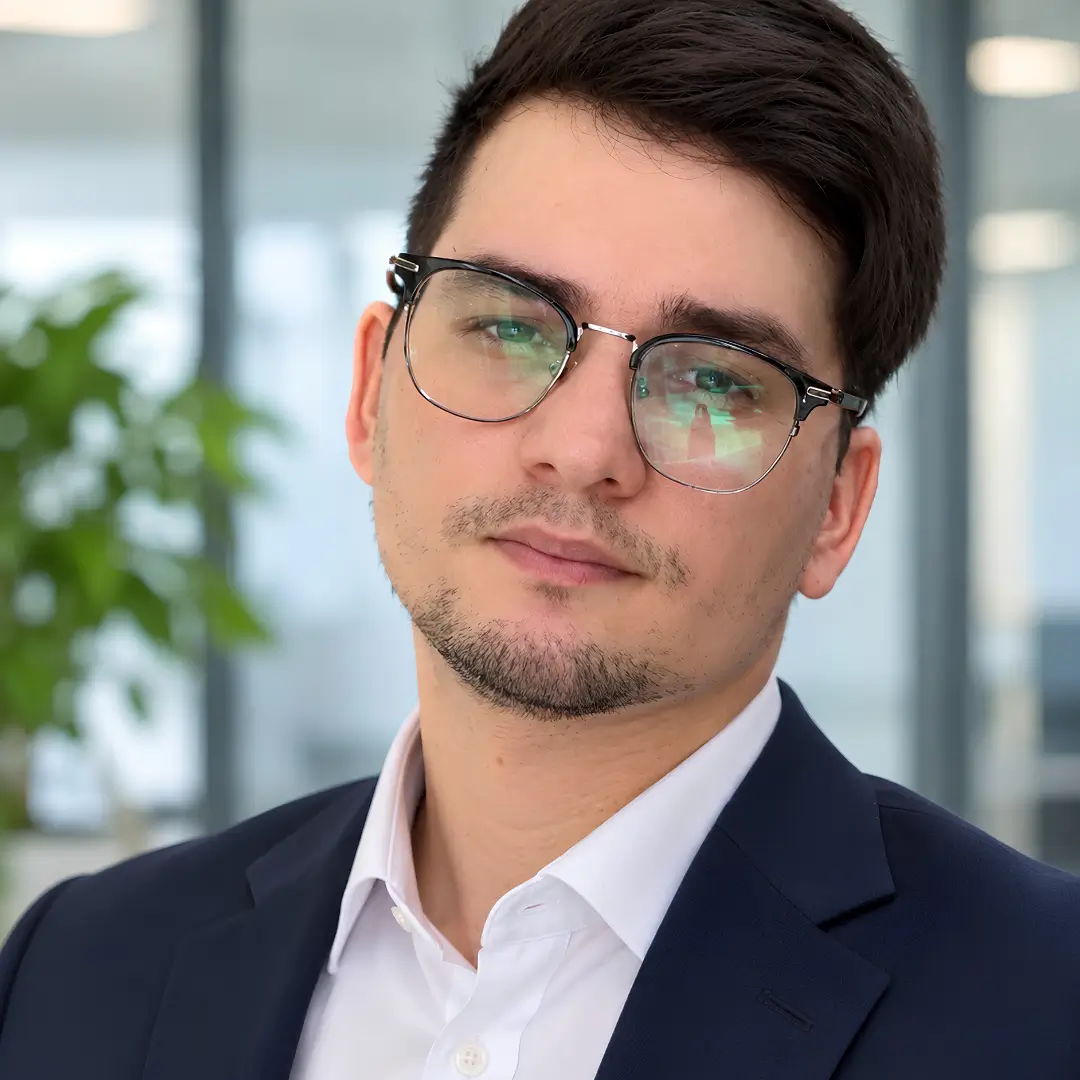
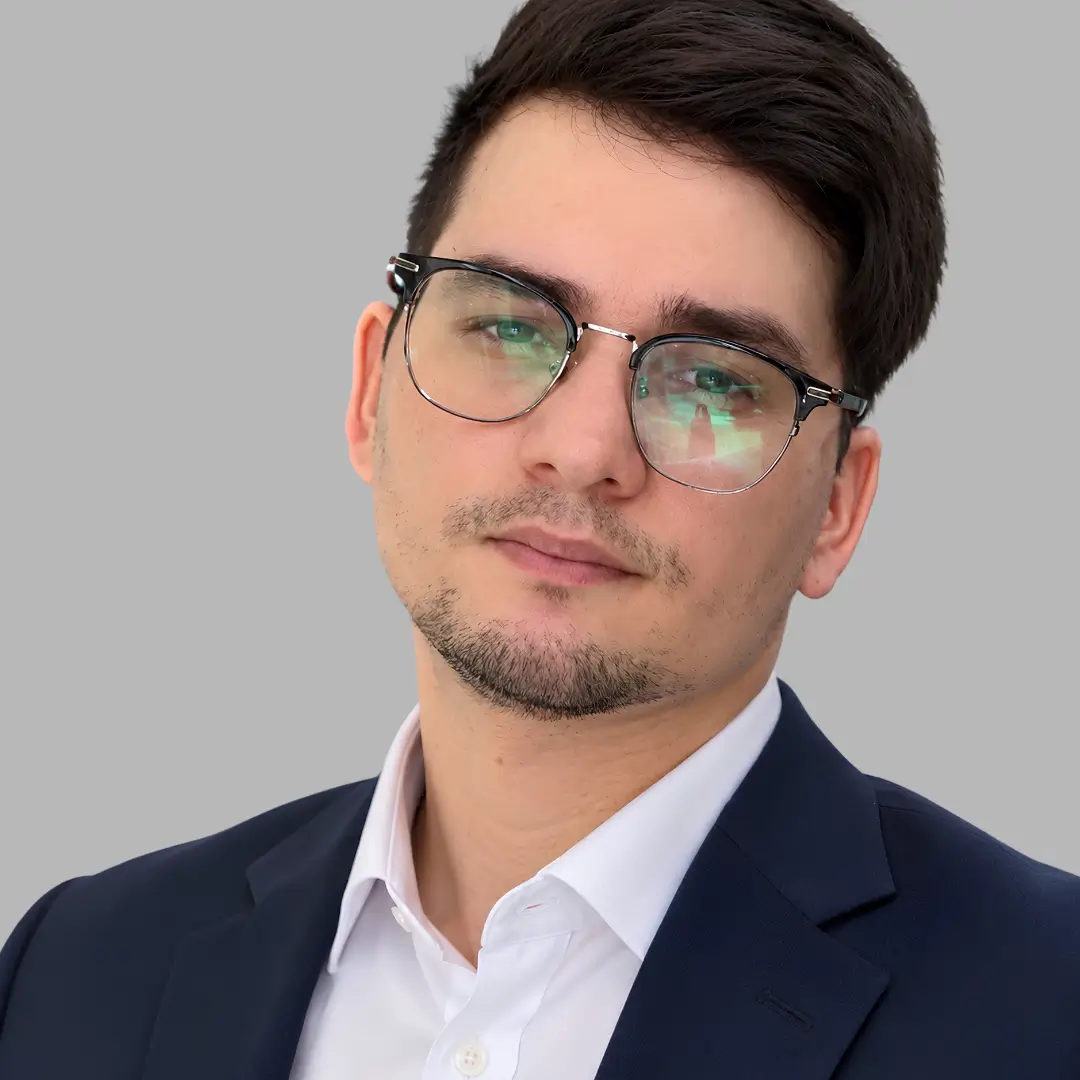
VA updated all

diff --git a/data/vas.php b/data/vas.php
@@ -23,7 +23,7 @@ $virtualAssistants = [
         'experienceYears' => 7,
         'languages' => ['Spanish', 'English'],
         'timezone' => 'GMT-3',
-        'avatar' => '/assets/va/lariany-pico/lari-profile.webp',
+        'avatar' => '/assets/va/lariany-pico/lari-pico.webp',
         'tagline' => 'Reliable Virtual Assistant specializing in administrative operations, customer support, appointment setting, and CRM management.',
         'shortBio' => 'Detail-oriented Virtual Assistant with 7 years of experience in administrative support, customer service, finance operations, and appointment setting. Skilled at managing daily operations, maintaining organized workflows, and delivering professional customer experiences across multiple industries.',
         'fullBio' => 'I am a dedicated Virtual Assistant with approximately 7 years of professional experience supporting administrative operations, customer service, finance processes, and business development activities. My background includes working with marketing agencies, healthcare practices, promotional products companies, and independent businesses. I have hands-on experience managing calendars, coordinating appointments, handling customer inquiries, processing purchase orders, supporting supplier payments, managing billing and accounts receivable, following up on outstanding balances, and maintaining accurate customer records. I also specialize in appointment setting and lead management, including outbound communication, lead follow-ups, CRM updates, appointment confirmations, and coordination between prospects and internal teams. Throughout my experience, I have worked with different teams and business owners to keep daily operations organized, improve communication, and ensure tasks are completed consistently. I am comfortable working remotely, adapting to different business processes, following established procedures, and managing multiple responsibilities with attention to detail. My goal is to help businesses save time, maintain efficient operations, and provide dependable administrative and customer support.',
@@ -63,7 +63,7 @@ $virtualAssistants = [
             'title' => 'Meet Lariany – Virtual Assistant & Administrative Support Specialist',
             'duration' => '02:00',
             'status' => 'pending_embed',
-            'placeholderPoster' => '/assets/va/lariany-pico/lari-profile.webp',
+            'placeholderPoster' => '/assets/va/lariany-pico/lari-pico.webp',
             'topicsCovered' => [
                 'Administrative Support and Customer Service',
                 'CRM Management and Appointment Setting',
@@ -293,7 +293,7 @@ I am particularly well suited for companies seeking a Virtual Assistant who can 
     'experienceYears' => 4,
     'languages' => ['Spanish', 'English'],
     'timezone' => 'Europe/Madrid',
-    'avatar' => '/assets/va/pedro-medina/pedro-profile.webp',
+    'avatar' => '/assets/va/pedro-medina/pedro-medina.webp',
     'tagline' => 'Bilingual Legal Operations Specialist helping personal injury firms streamline case management, client communication, and lead generation.',
     'shortBio' => 'Bilingual Virtual Assistant and Personal Injury Case Manager with over 4 years of experience supporting U.S.-based businesses and law firms. Skilled in case management, client communication, medical records coordination, insurance claims, intake operations, and administrative support.',
     'fullBio' => 'Pedro Medina is a bilingual English-Spanish Virtual Assistant and Personal Injury Case Manager with over 4 years of experience supporting U.S.-based businesses, law firms, and service providers. He has hands-on experience working with personal injury attorneys, assisting with case management operations, coordinating medical records and billing requests, communicating with clients and insurance adjusters, and preparing documentation for settlement demands. His experience includes requesting medical records and bills, reviewing medical ledgers, coordinating provider communications, handling insurance claims, reviewing declarations pages, identifying PIP, MedPay, and UM/UIM coverage, and assisting with demand preparation. Pedro also has experience in lead generation, appointment setting, cold calling, cold outreach, CRM management, and intake operations. His bilingual communication skills allow him to support both English- and Spanish-speaking clients while helping businesses improve their operational efficiency and customer experience. He is familiar with multiple business and legal software platforms and understands the importance of accuracy, organization, responsiveness, and confidentiality when supporting professional teams.',
@@ -319,7 +319,7 @@ I am particularly well suited for companies seeking a Virtual Assistant who can 
         'title' => 'Meet Pedro Medina | Bilingual Personal Injury Case Manager & Virtual Assistant',
         'duration' => '02:00',
         'status' => 'pending_embed',
-        'placeholderPoster' => '/assets/va/pedro-medina/pedro-profile.webp',
+        'placeholderPoster' => '/assets/va/pedro-medina/pedro-medina.webp',
         'topicsCovered' => [
             'Personal Injury Case Management and Legal Administrative Support',
             'Bilingual Client Communication and Medical Records Coordination',
